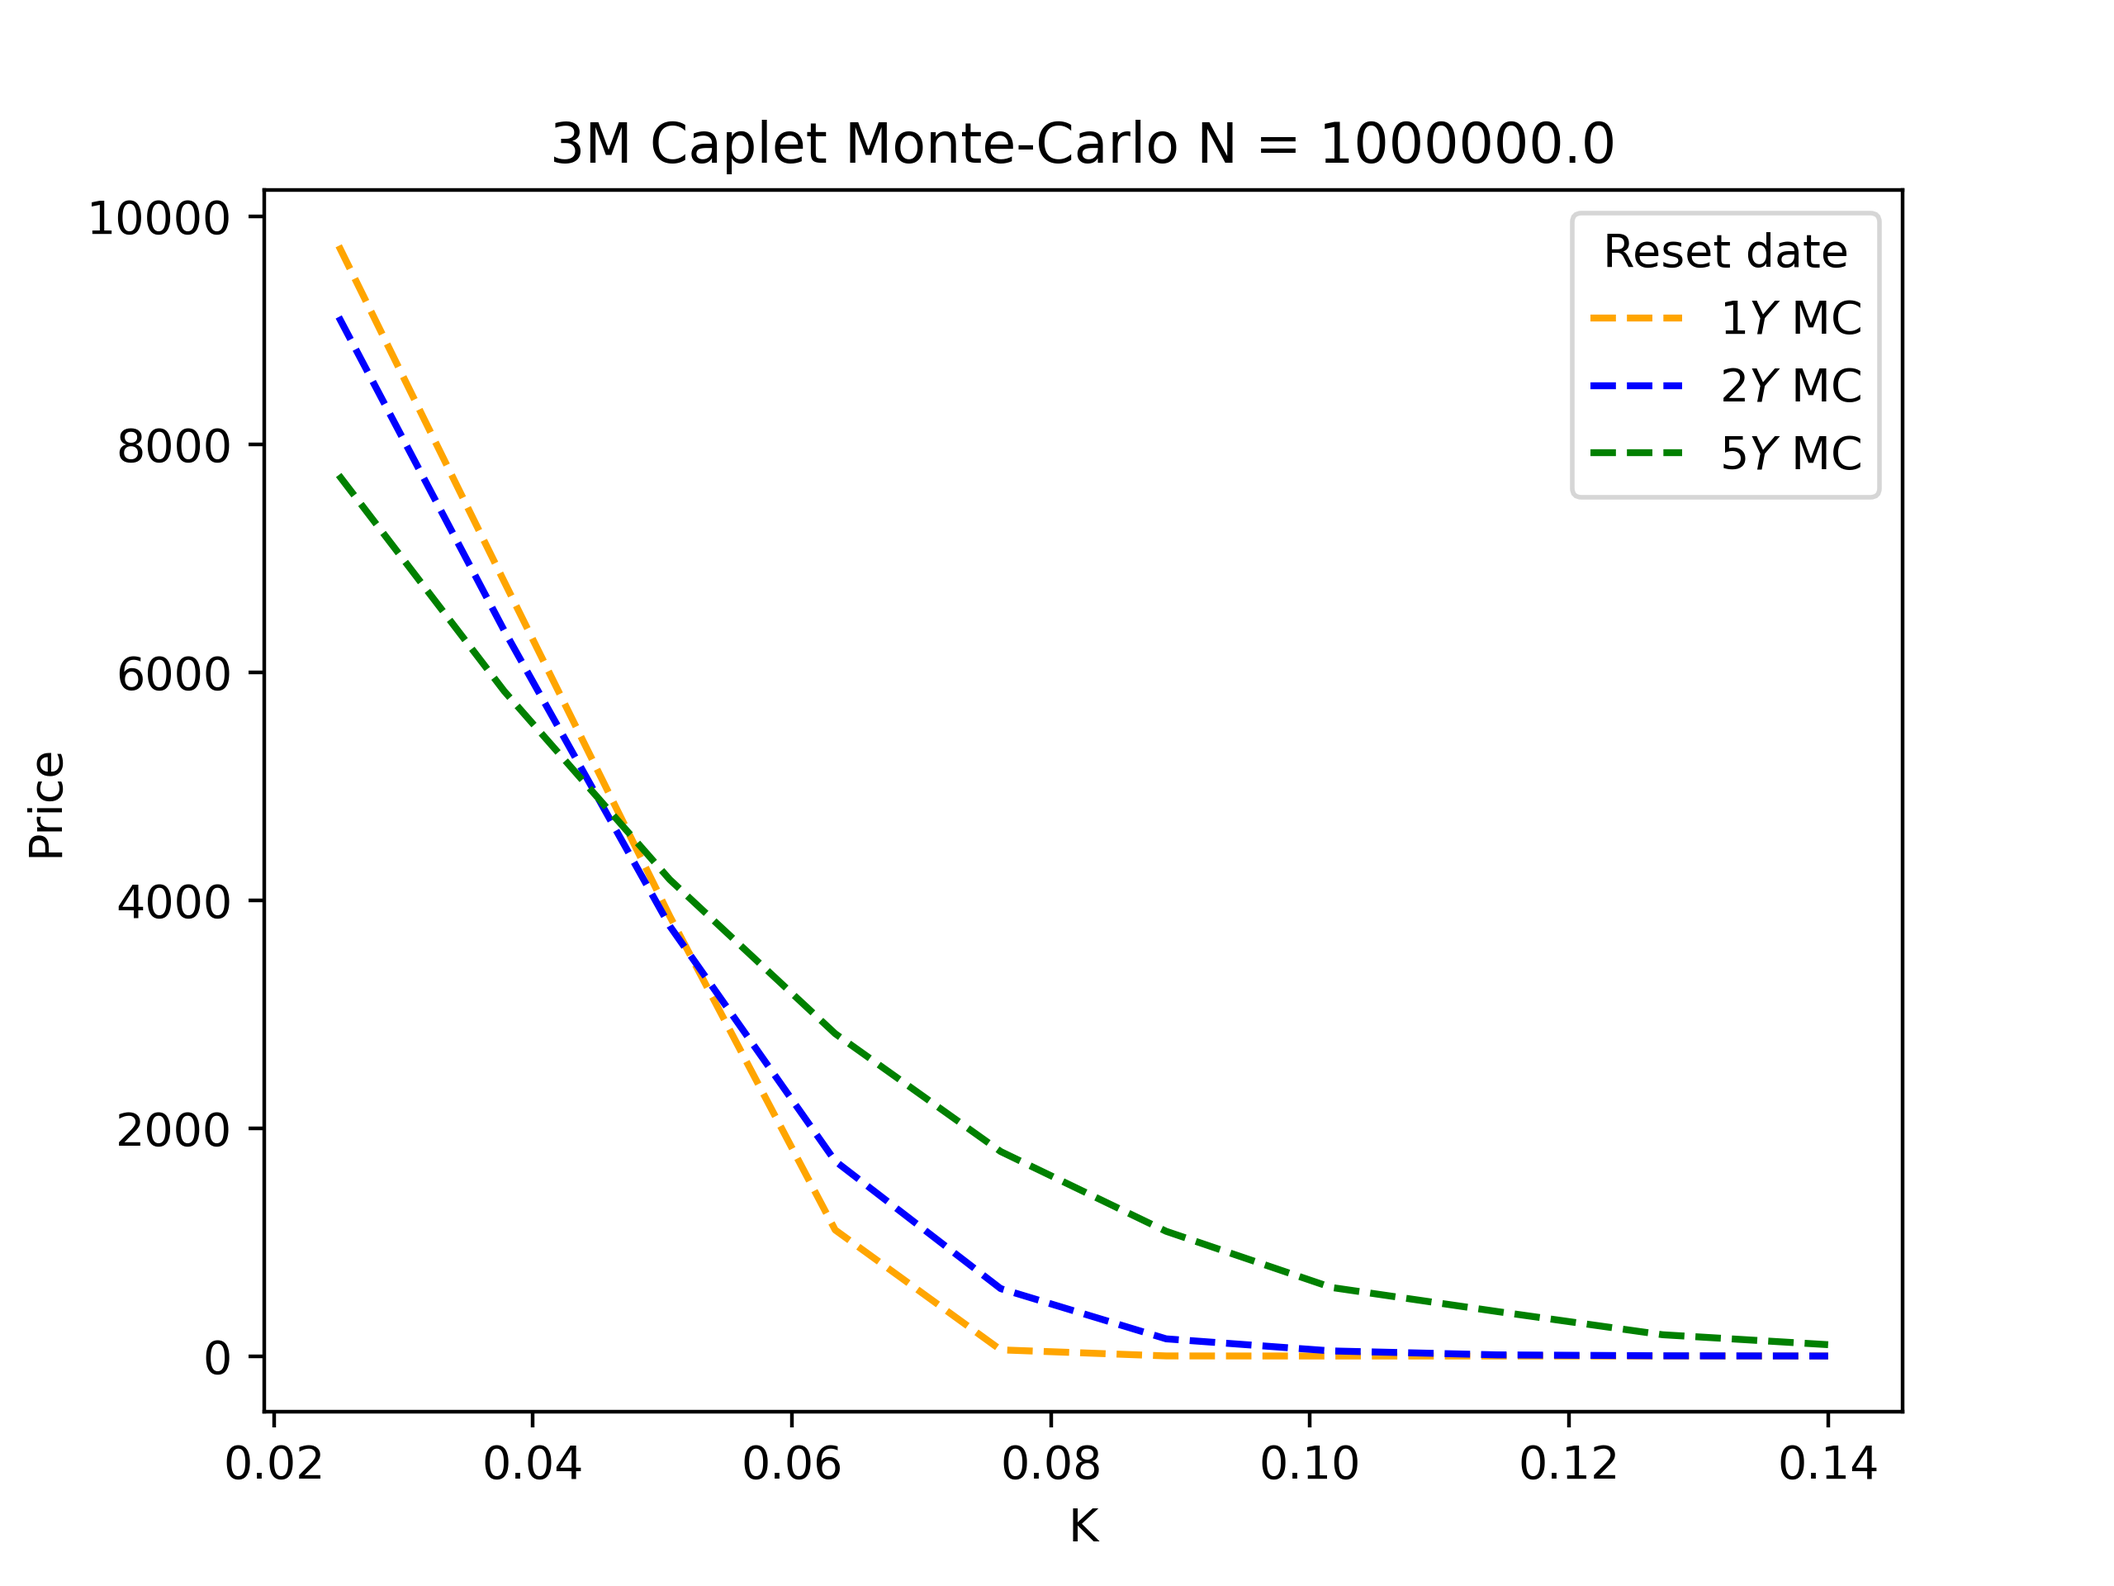
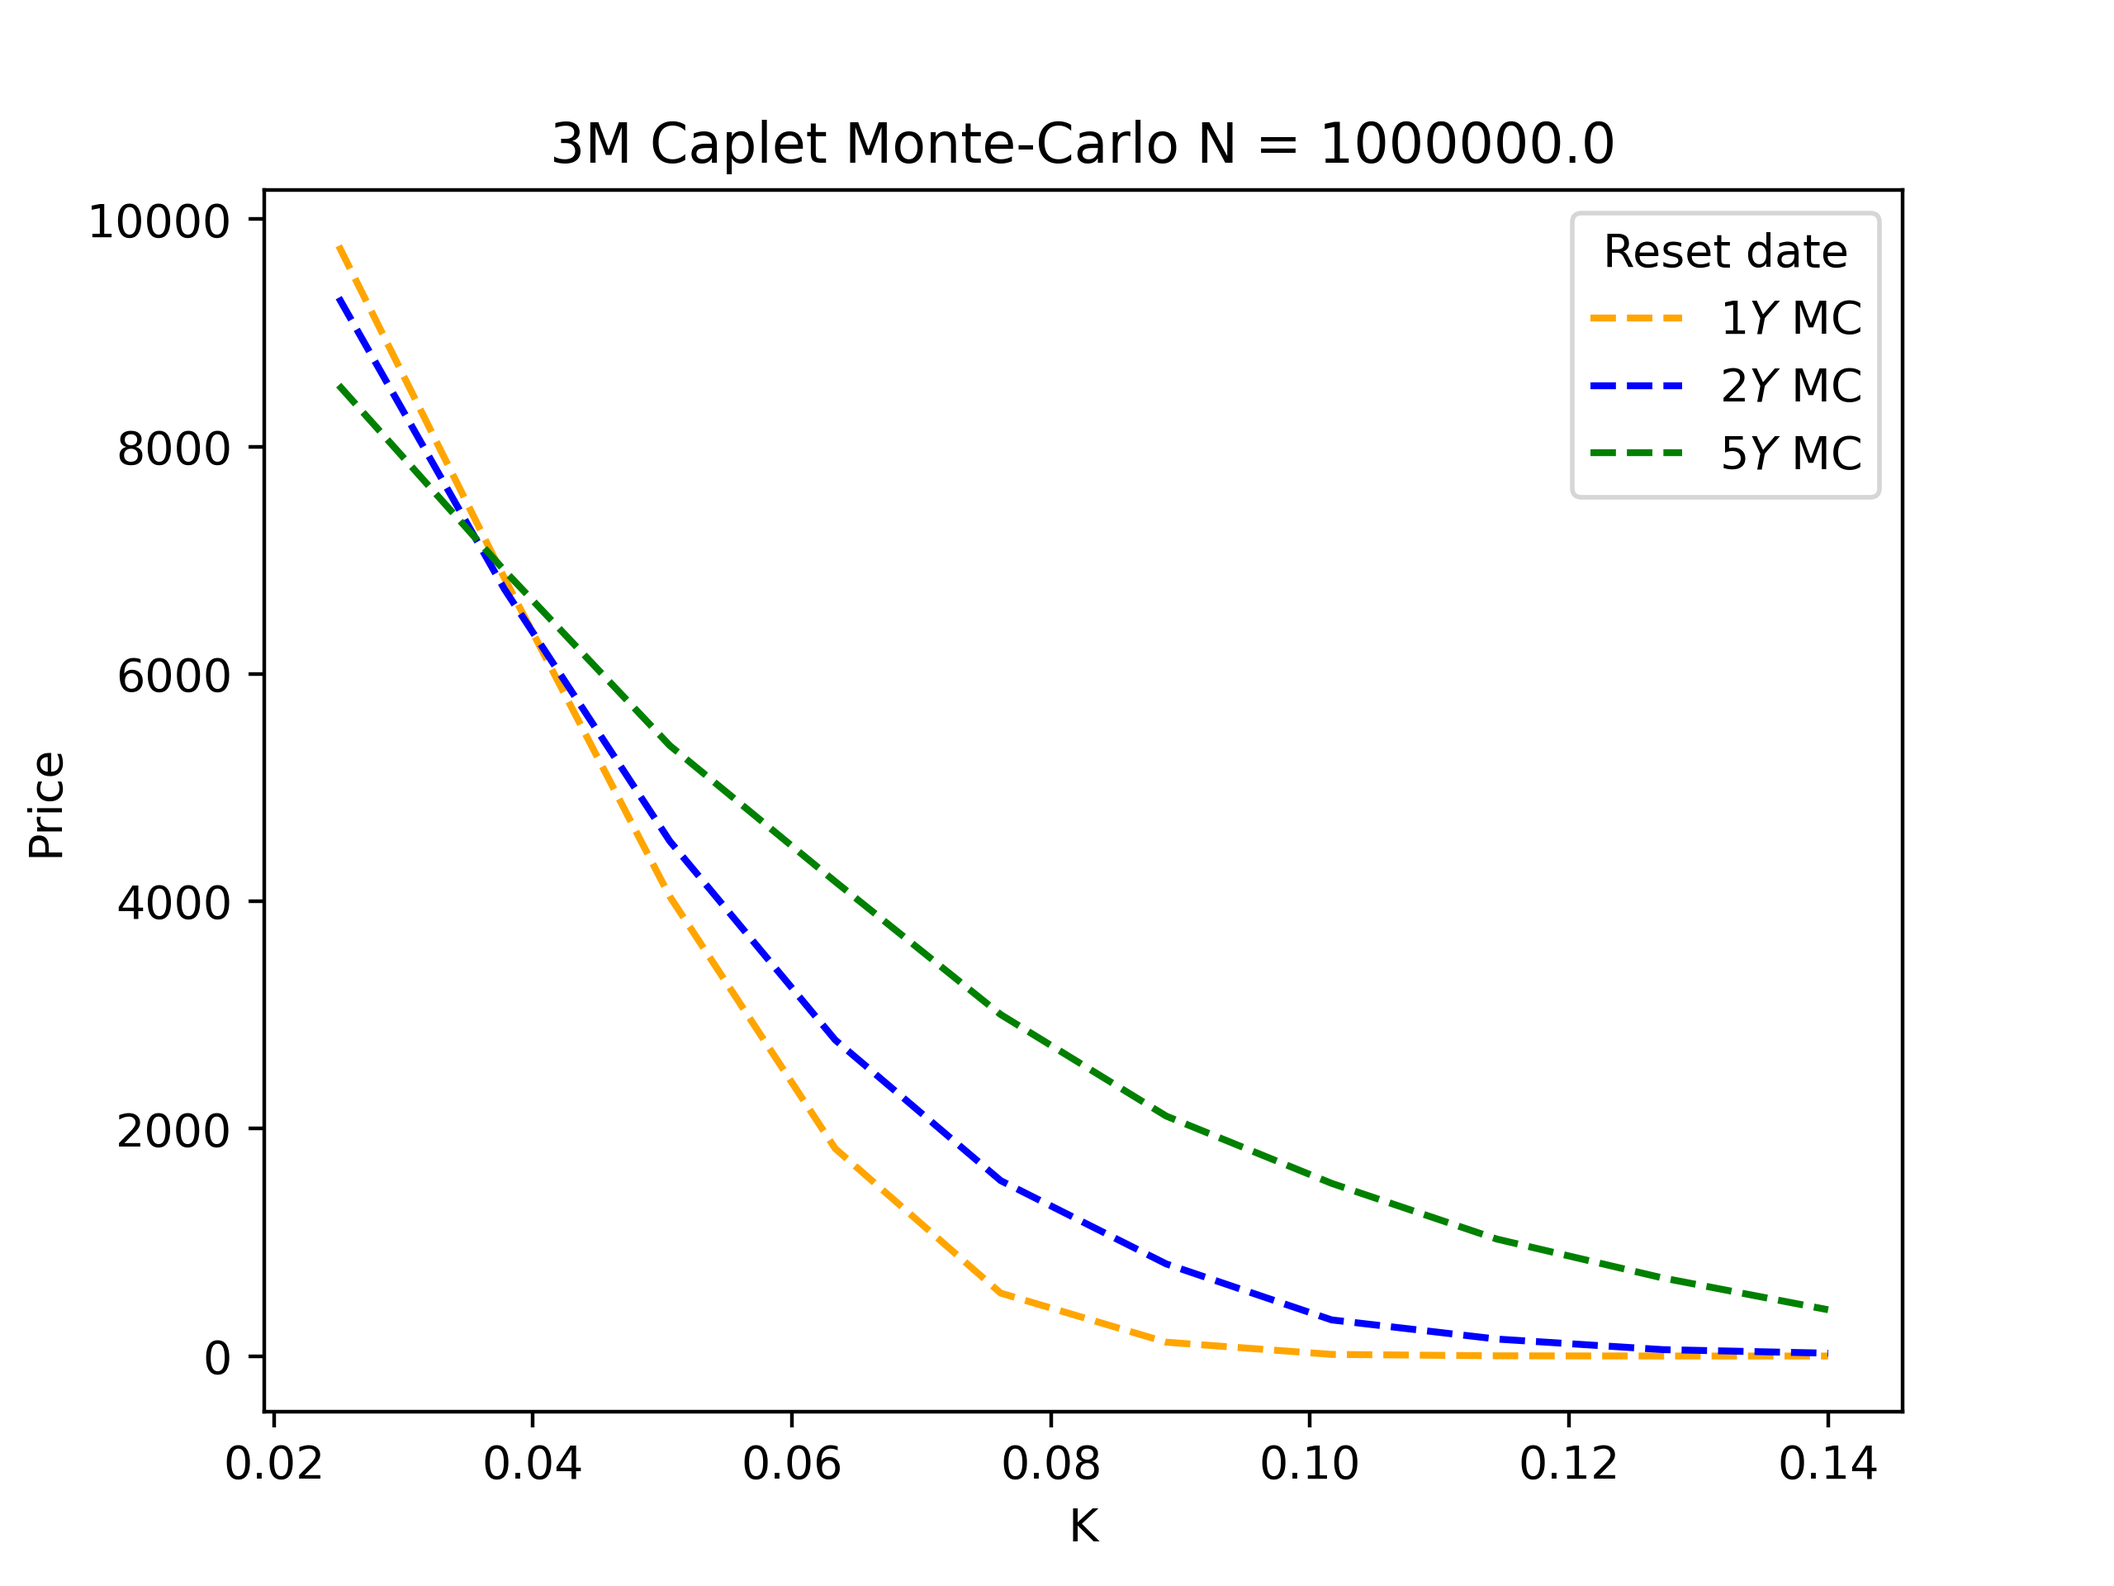
ts work

diff --git a/application/experiments/trolle_schwartz/diff_ML_plots/ts_AAD_DiffReg_plot_delta_caplet.py b/application/experiments/trolle_schwartz/diff_ML_plots/ts_AAD_DiffReg_plot_delta_caplet.py
@@ -6,9 +6,11 @@ from application.engine.standard_scalar import DifferentialStandardScaler
 from application.experiments.trolle_schwartz.ts_hedge_tools import training_data
 from application.engine.products import CapletAsPutOnZCB
 from application.engine.trolleSchwartz import trolleSchwartz
-from application.utils.path_config import get_plot_path
+from application.utils.path_config import get_plot_path, get_data_path
 from application.engine.mcBase import mcSim, RNG
 from torch.func import jacrev
+import pickle
+import os
 
 torch.set_printoptions(4)
 torch.set_default_dtype(torch.float64)
@@ -16,9 +18,9 @@ torch.set_default_dtype(torch.float64)
 if __name__ == '__main__':
 
     seed = 1234
-    N_train = 256*4
+    N_train = 1024
     N_test = 256
-    use_av = False
+    use_av = True
 
     # Setup Differential Regressor, and Scalar
     deg = 9
@@ -27,17 +29,21 @@ if __name__ == '__main__':
     scalar = DifferentialStandardScaler()
 
     # Trolle-Schwartz model specification
-    kappa = torch.tensor(0.0553) #0553
-    sigma = torch.tensor(0.3325) #3325
-    alpha0 = torch.tensor(0.045)
-    alpha1 = torch.tensor(0.131)
-    gamma = torch.tensor(0.3341)
-    rho = torch.tensor(0.4615)
-    theta = torch.tensor(0.7542) * kappa / torch.tensor(2.1476)
+    kappa = torch.tensor([0.2169, 0.5214, 0.8340])
+    sigma = torch.tensor([0.6586, 1.0212, 1.2915])
+    alpha0 = torch.tensor([0.0000, 0.0014, -0.0085])
+    alpha1 = torch.tensor([0.0037, 0.0320, 0.0272])
+    gamma = torch.tensor([0.1605, 1.4515, 0.6568])
+    rho = torch.tensor([0.0035, 0.0011, 0.6951])
+    thetaP = torch.tensor([1.4235, 0.7880, 1.2602])
+
+    kappaP = torch.tensor([1.4235, 0.7880, 1.2602])
+
+    theta = thetaP * kappaP / kappa
 
     # initializer
-    varphi_min = 0.07
-    varphi_max = 0.11
+    varphi_min = 0.03
+    varphi_max = 0.13
     varphi = torch.linspace(varphi_min, varphi_max, N_train)
     #varphi = torch.empty(N_train) #torch.tensor(0.0832)
     #varphi = varphi.fill_(0.0832)
@@ -48,7 +54,7 @@ if __name__ == '__main__':
     init = init.fill_(varphi)
     """
 
-    model = trolleSchwartz(gamma, kappa, theta, rho, sigma, alpha0, alpha1, varphi)
+    model = trolleSchwartz(gamma, kappa, theta, rho, sigma, alpha0, alpha1, varphi, simDim=3)
 
     rng = RNG(seed=seed, use_av=use_av)
 
@@ -57,7 +63,7 @@ if __name__ == '__main__':
     delta = torch.tensor(0.25)
     notional = torch.tensor(1e6)
 
-    strike = torch.tensor(.087)
+    strike = torch.tensor(.07)
     #strike = mdl.calc_swap_rate(r0, exerciseDate, delta)
 
     prd = CapletAsPutOnZCB(
@@ -78,7 +84,7 @@ if __name__ == '__main__':
         """
         t0 = torch.tensor(t0)
 
-        x, v, phi1, phi2, phi3, phi4, phi5, phi6 = [x.reshape(1, -1) for x in x0_vec]
+        x, v, phi1, phi2, phi3, phi4, phi5, phi6 = [x.reshape(model.simDim, -1) for x in x0_vec]
 
         def _zcb(x, v, phi1, phi2, phi3, phi4, phi5, phi6):
             state = [x, v, phi1, phi2, phi3, phi4, phi5, phi6]
@@ -88,7 +94,7 @@ if __name__ == '__main__':
         zcbs = _zcb(x, v, phi1, phi2, phi3, phi4, phi5, phi6)
 
         jac = jacrev(_zcb, argnums=(0, 1, 2, 3, 4, 5, 6, 7))(x, v, phi1, phi2, phi3, phi4, phi5, phi6)
-        jac_sum = torch.stack([x.sum_to_size((1, x0_vec.shape[2])) for x in jac])
+        jac_sum = torch.stack([x.sum_to_size((model.simDim, x0_vec.shape[2])) for x in jac])
         tmp = jac_sum.permute(1, 2, 0).squeeze()
         dzcbs = tmp.unsqueeze(dim=2)
 
@@ -104,12 +110,12 @@ if __name__ == '__main__':
             tuple with: (Pathwise payoffs, Pathwise differentials wrt. r0 evaluated at x)
         """
         t0 = torch.tensor(t0)
-        x, v, phi1, phi2, phi3, phi4, phi5, phi6 = [x.reshape(1, -1) for x in x0_vec]
+        x, v, phi1, phi2, phi3, phi4, phi5, phi6 = [x.reshape(model.simDim, -1) for x in x0_vec]
 
         def _payoffs(x, v, phi1, phi2, phi3, phi4, phi5, phi6):
             state = [x, v, phi1, phi2, phi3, phi4, phi5, phi6]
-            f0T = model.calc_instant_fwd(state, t0, exerciseDate + delta - t0)
-            cMdl = trolleSchwartz(gamma, kappa, theta, rho, sigma, alpha0, alpha1, f0T)
+            f0T = model.calc_instant_fwd(state, t0, exerciseDate + delta - t0).flatten()
+            cMdl = trolleSchwartz(gamma, kappa, theta, rho, sigma, alpha0, alpha1, f0T, simDim=3)
             cPrd = CapletAsPutOnZCB(
                 strike=strike,
                 exerciseDate=exerciseDate - t0,
@@ -118,7 +124,7 @@ if __name__ == '__main__':
             )
             cTL = dTL[dTL <= exerciseDate - t0]
             payoffs = mcSim(cPrd, cMdl, rng, len(f0T), cTL)
-            return payoffs[0, :]
+            return payoffs
 
         cpls = _payoffs(x, v, phi1, phi2, phi3, phi4, phi5, phi6)
 
@@ -132,12 +138,12 @@ if __name__ == '__main__':
     """ Calculate `true` caplet price using Monte Carlo for comparison """
     #X_test = torch.exp(-varphi * exerciseDate).reshape(-1, 1)
 
-    hedge_points = 5
+    hedge_points = 50
     #dTL = torch.linspace(0.0, float(exerciseDate+delta), hedge_points + 1)
     dTL = torch.linspace(0.0, exerciseDate + delta, int(hedge_points * (exerciseDate + delta) + 1))
 
-    mcSim(prd, model, rng, N_train, dTL).reshape(-1, 1)
-    x0_vec = torch.stack(model.x)[:, :, -1, :]
+    mcSim(prd, model, rng, N_train, dTL)
+    x0_vec = torch.stack(model.x)[:, :, 1, :]
 
     # Required when using AV to concat the initial forward rates
     if use_av:
@@ -158,17 +164,38 @@ if __name__ == '__main__':
 
 
     #X_test = model.calc_zcb(x0_vec, torch.tensor(0.0), exerciseDate + delta).reshape(-1, 1)
-    X_test = torch.linspace(max(X_train.min(),X_train.mean()-3*X_train.std() ), min(X_train.max(), X_train.mean()+3*X_train.std()), N_test).reshape(-1, 1)
+    X_test = torch.linspace(max(X_train.min(),X_train.mean()-5*X_train.std() ), min(X_train.max(), X_train.mean()+5*X_train.std()), N_test).reshape(-1, 1)
+
+    #x = torch.exp(-varphi*(exerciseDate + delta))
+    #X_test = torch.linspace(x.min(), x.max(), N_test).reshape(-1, 1)
+    #varphi_red = torch.linspace(varphi.min(), varphi.max(), N_test)
 
     varphi = -torch.log(X_test)/(exerciseDate + delta)  # torch.tensor(0.0832)
     y_mdl = torch.full_like(X_test, torch.nan)
     for j in tqdm(range(len(X_test))):
-        tmp_mdl = trolleSchwartz(gamma, kappa, theta, rho, sigma, alpha0, alpha1, varphi[j])
+        tmp_mdl = trolleSchwartz(gamma, kappa, theta, rho, sigma, alpha0, alpha1, varphi[j], simDim=3)
         tmp_rng = RNG(seed=seed, use_av=use_av)
         y_mdl[j] = (torch.mean(mcSim(prd, tmp_mdl, tmp_rng, 10000, dTL)))
     y_mdl = y_mdl.reshape(-1, 1)
     z_mdl = y_mdl.diff(dim=0) / X_test.diff(dim=0)
+    """
+    filename = get_data_path('ts_mc_cpl_test_set.pkl')
+    if os.path.isfile(filename):
+        with open(filename, 'rb') as file:
+            y_mdl, z_mdl = pickle.load(file)
+    else:
+        #varphi = -torch.log(X_test)/(exerciseDate + delta)  # torch.tensor(0.0832)
+        y_mdl = torch.full_like(X_test, torch.nan)
+        for j in tqdm(range(len(X_test))):
+            tmp_mdl = trolleSchwartz(gamma, kappa, theta, rho, sigma, alpha0, alpha1, varphi_red[j])
+            tmp_rng = RNG(seed=seed, use_av=use_av)
+            y_mdl[j] = (torch.mean(mcSim(prd, tmp_mdl, tmp_rng, 10000*10, dTL)))
+        y_mdl = y_mdl.reshape(-1, 1)
+        z_mdl = y_mdl.diff(dim=0) / X_test.diff(dim=0)
 
+        with open(filename,'wb') as file:
+            pickle.dump((y_mdl, z_mdl),file,pickle.HIGHEST_PROTOCOL)
+    """
     X_train_scaled, y_train_scaled, z_train_scaled = scalar.fit_transform(X_train, y_train, z_train)
 
     diff_reg.fit(X_train_scaled, y_train_scaled, z_train_scaled)

diff --git a/application/engine/trolleSchwartz.py b/application/engine/trolleSchwartz.py
@@ -89,9 +89,10 @@ class trolleSchwartz(Model):
         self.alpha0 = alpha0.unsqueeze(0) if alpha0.dim() == 0 else alpha0
         self.alpha1 = alpha1.unsqueeze(0) if alpha1.dim() == 0 else alpha1
         """
-        v = [2.0, 0.5, 0.5]  # TODO make this an argument
+        v = [2.0, 1., 1.]  # TODO make this an argument
         self._x0 = torch.zeros(size=(simDim, 1))
-        self._v0 = torch.tensor(v[:simDim]).reshape(-1, 1)
+        self._v0 = self.theta
+        #self._v0 = torch.tensor(v[:simDim]).reshape(-1, 1)
         self._phi1_0 = torch.clone(self._x0)
         self._phi2_0 = torch.clone(self._x0)
         self._phi3_0 = torch.clone(self._x0)
@@ -234,14 +235,16 @@ class trolleSchwartz(Model):
         Euler's discretisation of the state variables:
         x, v, phi1, phi2, phi3, phi4, phi5, phi6
         """
-        #v = torch.abs(v)
+        v = torch.abs(v)
         #v[v < 0] = v.nanmean() #imputing
 
         dx = -self.gamma * x * dt + torch.sqrt(v) * Wf * torch.sqrt(dt)
         #dx = -self.gamma * x * dt + torch.sqrt(v) * Wf * torch.sqrt(dt)
 
         # Note: using abs(v)
-        dv = self.kappa * (self.theta.reshape(self.simDim,1) - v) * dt + self.sigma * torch.sqrt(v) * Wv * torch.sqrt(dt)
+        dv = self.kappa * (self.theta.reshape(self.simDim, 1) - v) * dt + self.sigma * torch.sqrt(v) * (self.rho * Wf * torch.sqrt(
+            dt) + torch.sqrt(1.- self.rho**2) * Wv * torch.sqrt(dt))
+        #dv = self.kappa * (self.theta.reshape(self.simDim,1) - v) * dt + self.sigma * torch.sqrt(v) * Wv * torch.sqrt(dt)
         #dv = self.kappa * (self.theta - v) * dt + self.sigma * torch.sqrt(v) * Wv * torch.sqrt(dt)
 
         dphi1 = (x - self.gamma * phi1) * dt
@@ -304,7 +307,8 @@ class trolleSchwartz(Model):
         dt = self.timeline[1:] - self.timeline[:-1]
 
         # Compute correlated Brownian motions
-        Wf, Wv = self._correlatedBrownians(Z)
+        Wf, Wv = Z[:self.simDim,:,:], Z[self.simDim:,:,:]
+        #Wf, Wv = self._correlatedBrownians(Z)
 
         # Initialize state variables
         # set initial values to same for all paths
@@ -326,19 +330,19 @@ class trolleSchwartz(Model):
             nonlocal idx, s, sum_x
             if self.measure == 'risk_neutral':
                 for j in range(len(self.paths[idx].fwd)):
-                    self._paths[idx].fwd[j] = self.calc_fwd(X=x,
+                    self._paths[idx].fwd[j][:] = self.calc_fwd(X=x,
                                                             t=self.defline[idx].fwdRates[j].startDate - s,
                                                             delta=self.defline[idx].fwdRates[j].delta)
 
                 for j in range(len(self.paths[idx].irs)):
-                    self._paths[idx].irs[j] = self.calc_swap(X=x,
+                    self._paths[idx].irs[j][:] = self.calc_swap(X=x,
                                                              t=self.defline[idx].irs[j].t - s,
                                                              delta=self.defline[idx].irs[j].delta,
                                                              K=self.defline[idx].irs[j].fixRate,
                                                              N=self.defline[idx].irs[j].notional)
 
                 for j in range(len(self.paths[idx].disc)):
-                    self._paths[idx].disc[j] = self.calc_zcb(X=x,
+                    self._paths[idx].disc[j][:] = self.calc_zcb(X=x,
                                                              t=torch.tensor(0.0),
                                                              T=self.defline[idx].discMats[j] - s)
 
@@ -607,12 +611,16 @@ class trolleSchwartz(Model):
                         method='RK45')
         Nmat = torch.tensor(sol.y)
         N = Nmat[:, -1].reshape(self.simDim, 1)
-        M = torch.sum(N * self.kappa * self.theta)
+        #M = torch.sum(N * self.kappa * self.theta)
+        M = torch.trapz( torch.sum(Nmat*self.kappa*self.theta,dim=0), torch.tensor(sol.t), dim=0)
+        #M = torch.trapz((N * self.kappa * self.theta).flatten(), torch.tensor(sol.t), dim=0)
         #M = torch.trapz((torch.tensor(sol.y[0])*self.kappa*self.theta).flatten(), torch.tensor(sol.t), dim=0)
 
         t_idx = list(self.timeline).index(t)
-        zcb0 = self.calc_zcb([i[:, t_idx, :].mean(dim=1) for i in self.x], t, T0)
-        zcb1 = self.calc_zcb([i[:, t_idx, :].mean(dim=1) for i in self.x], t, T1)
+        zcb0 = self.calc_zcb(self.x0, t, T0)
+        zcb1 = self.calc_zcb(self.x0, t, T1)
+        #zcb0 = self.calc_zcb([i[:, t_idx, :].mean(dim=1) for i in self.x], t, T0)
+        #zcb1 = self.calc_zcb([i[:, t_idx, :].mean(dim=1) for i in self.x], t, T1)
 
         term1 = M
         term2 = torch.sum(N * self._v0, dim=0)
@@ -633,7 +641,7 @@ class trolleSchwartz(Model):
                 c = torch.complex(real=a, imag=u * b)
                 term1 = self.calc_characteristic_func(c,t,T0,T1)
                 term2 = torch.exp(-torch.complex(real=torch.tensor(0.0), imag=u*y))
-                integrand = torch.imag( term1 * term2 ) / u
+                integrand = torch.imag( term1 * term2 ) / (u)
 
                 return integrand
 

diff --git a/application/experiments/test_trolle_schwartz/trolleschwartz_mc_caplet_multiDim.py b/application/experiments/test_trolle_schwartz/trolleschwartz_mc_caplet_multiDim.py
@@ -11,9 +11,9 @@ torch.set_printoptions(8)
 torch.set_default_dtype(torch.float64)
 
 if __name__ == "__main__":
-    strike_plot = False
-    save_fig = False
-    euler_step_size = 100*5
+    strike_plot = True
+    save_fig = True
+    euler_step_size = 100
 
     # Setup
     seed = 1234
@@ -65,8 +65,8 @@ if __name__ == "__main__":
     print('MC Price =', mc_price)
 
     # analytic
-    cpl = model.calc_cpl(torch.tensor(0.), prd.start, prd.delta, prd.strike, notional)
-    print('Semi-analytic Price =', cpl)
+    #cpl = model.calc_cpl(torch.tensor(0.), prd.start, prd.delta, prd.strike, notional)
+    #print('Semi-analytic Price =', cpl)
 
 
     if strike_plot:
@@ -108,4 +108,3 @@ if __name__ == "__main__":
         if save_fig:
             plt.savefig(get_plot_path('trolle_schwartz/ts_3D_cpl_strikes.png'), dpi=400)
         plt.show()
-

diff --git a/application/experiments/trolle_schwartz/ts_hedge_tools.py b/application/experiments/trolle_schwartz/ts_hedge_tools.py
@@ -42,7 +42,7 @@ def training_data(x0_vec: torch.Tensor, t0: float, calc_dU_dr, calc_dPrd_dr, use
     if dydr.dim() == 1:
         dydr = dydr.reshape(-1, 1)
 
-    z_train = (torch.pinverse(dxdr + 1E-8) @ dydr).reshape(-1, 1)
+    z_train = (torch.pinverse(dxdr) @ dydr).reshape(-1, 1)
     """
     if x_train.shape[1] > 1:
         # General (multi-dimensional) case
